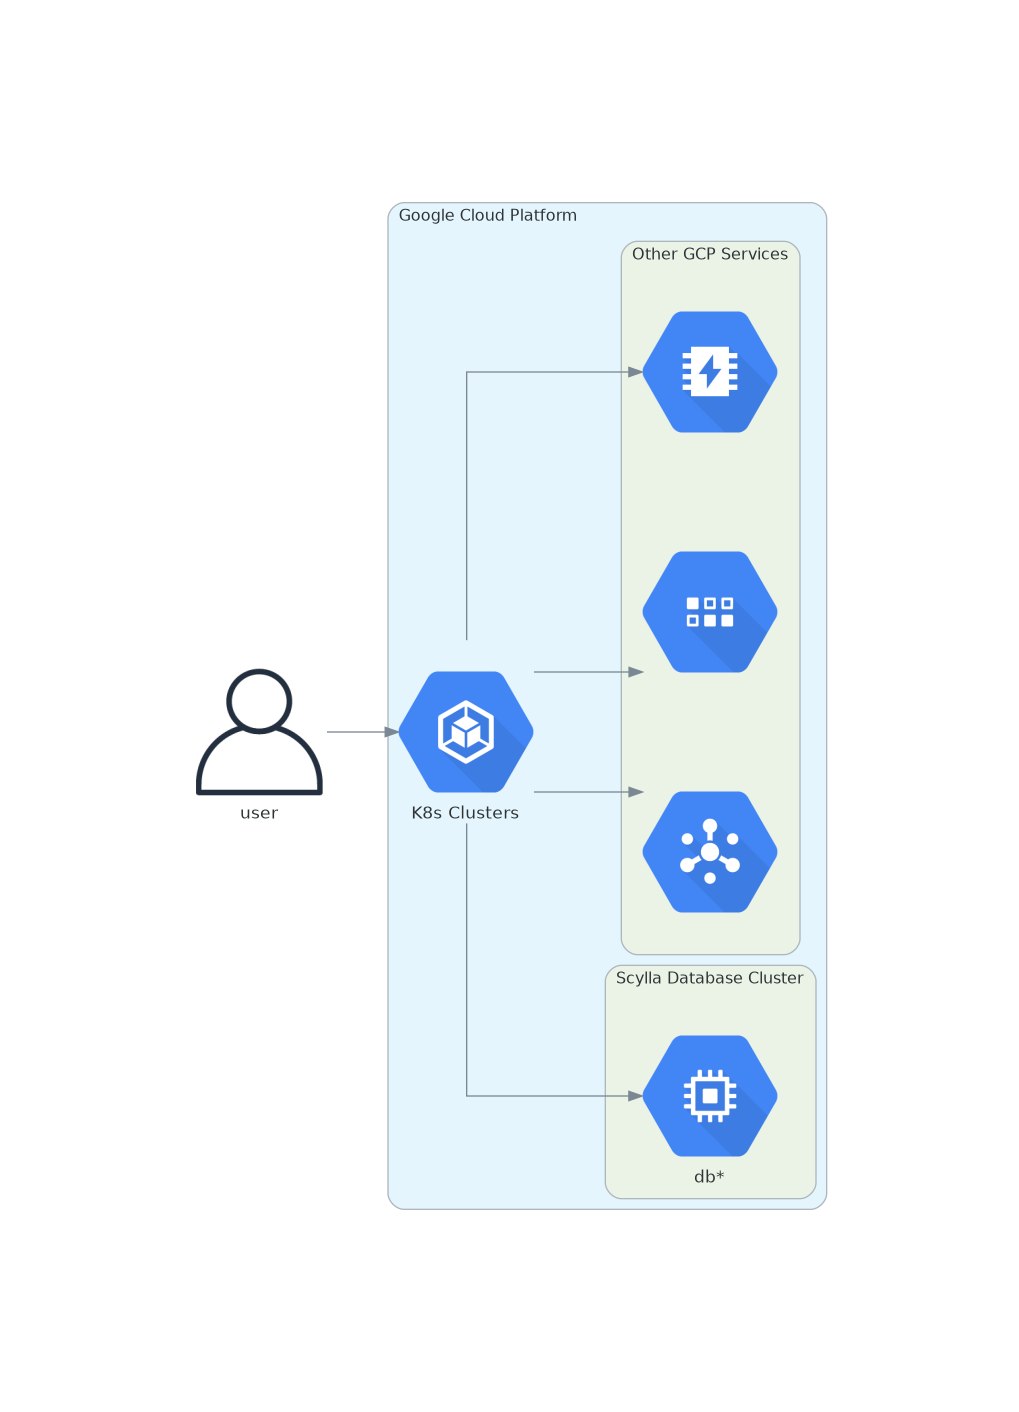
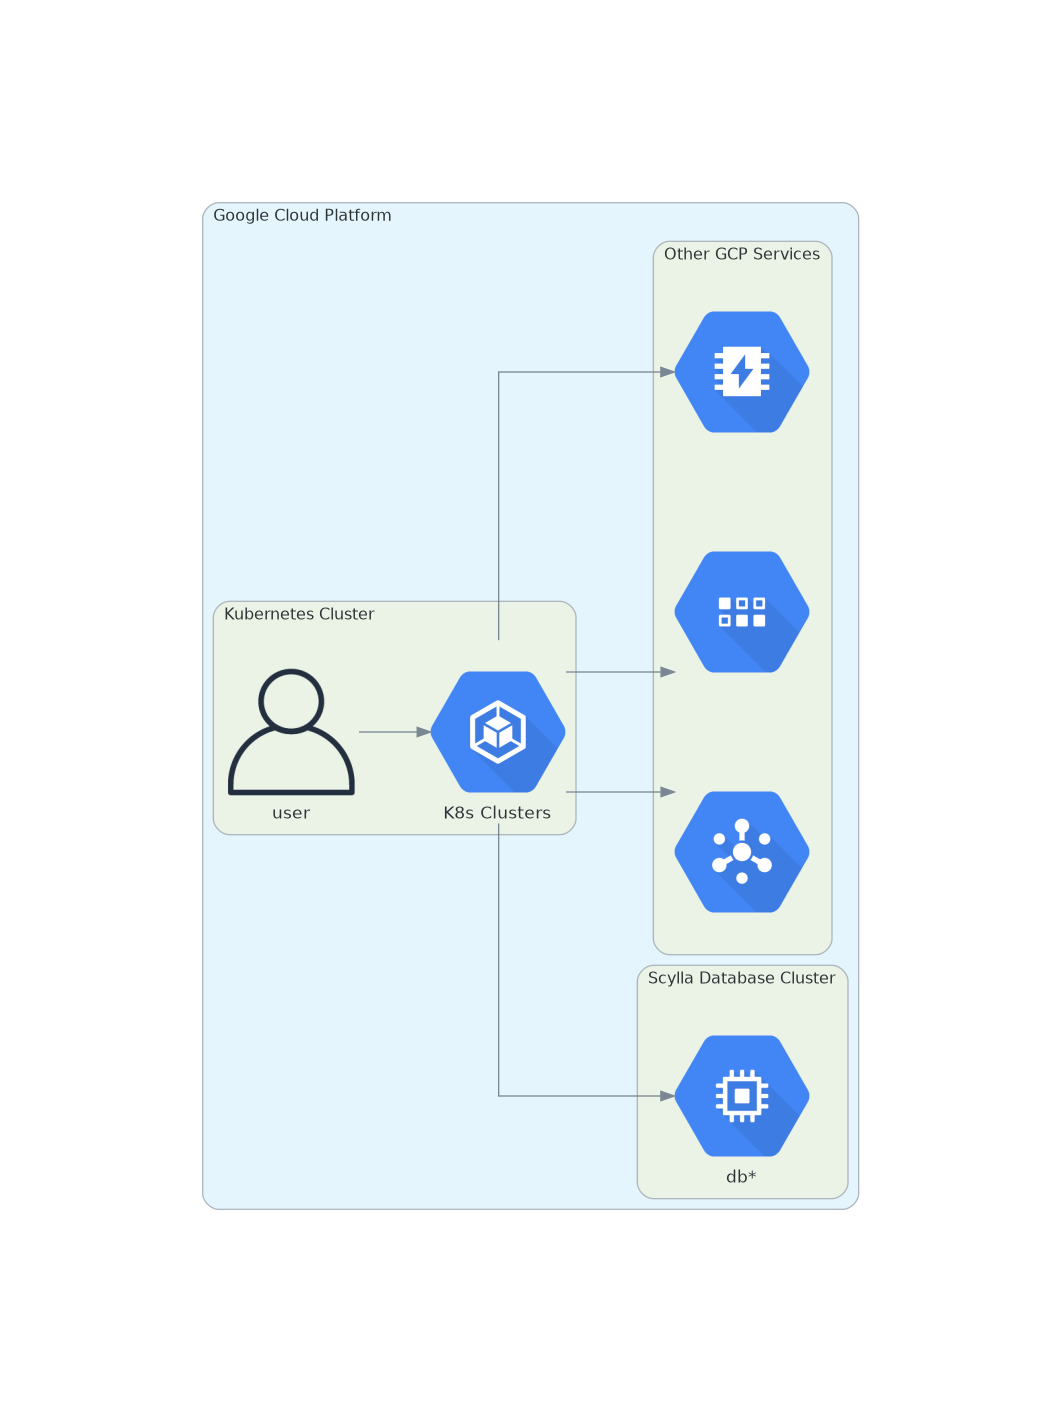
updated the readme and manipulating the diagram more

diff --git a/diagram.py b/diagram.py
@@ -2,19 +2,23 @@
 
 # script to build the architecture diagram
 
+# docs - https://diagrams.mingrammer.com/
+
 from diagrams import Cluster, Diagram
 from diagrams.gcp.analytics import PubSub
 from diagrams.gcp.compute import GCE, GKE
 from diagrams.gcp.database import Datastore, Memorystore
 from diagrams.onprem.client import User
 
-with Diagram("", show=False, filename="diagram2", direction='LR'):
+with Diagram("", show=False, filename="diagram", direction='LR'):
 
-	user = User("user")
 
 	with Cluster("Google Cloud Platform"):
-		
-		gke = GKE("K8s Clusters")
+
+		with Cluster("Kubernetes Cluster"):
+
+				user = User("user")
+			gke = GKE("K8s Clusters")
 
 		with Cluster("Scylla Database Cluster"):
 

diff --git a/README.md b/README.md
@@ -1,1 +1,20 @@
 # 2021-devhouse
+
+
+```yaml
+
+apiVersion: v1
+clusters:
+	- cluster:
+	    certificate-authority-data: xxxx
+	    extensions:
+	    - extension:
+	        also-proxy:
+	        - xxx.xxx.xxx.xxx/xx
+	        manager:
+	          namespace: ambassador
+	      name: telepresence.io
+	    server: https://xxx.xxx.xxx.xxx
+	  name: cluster_name
+
+```
